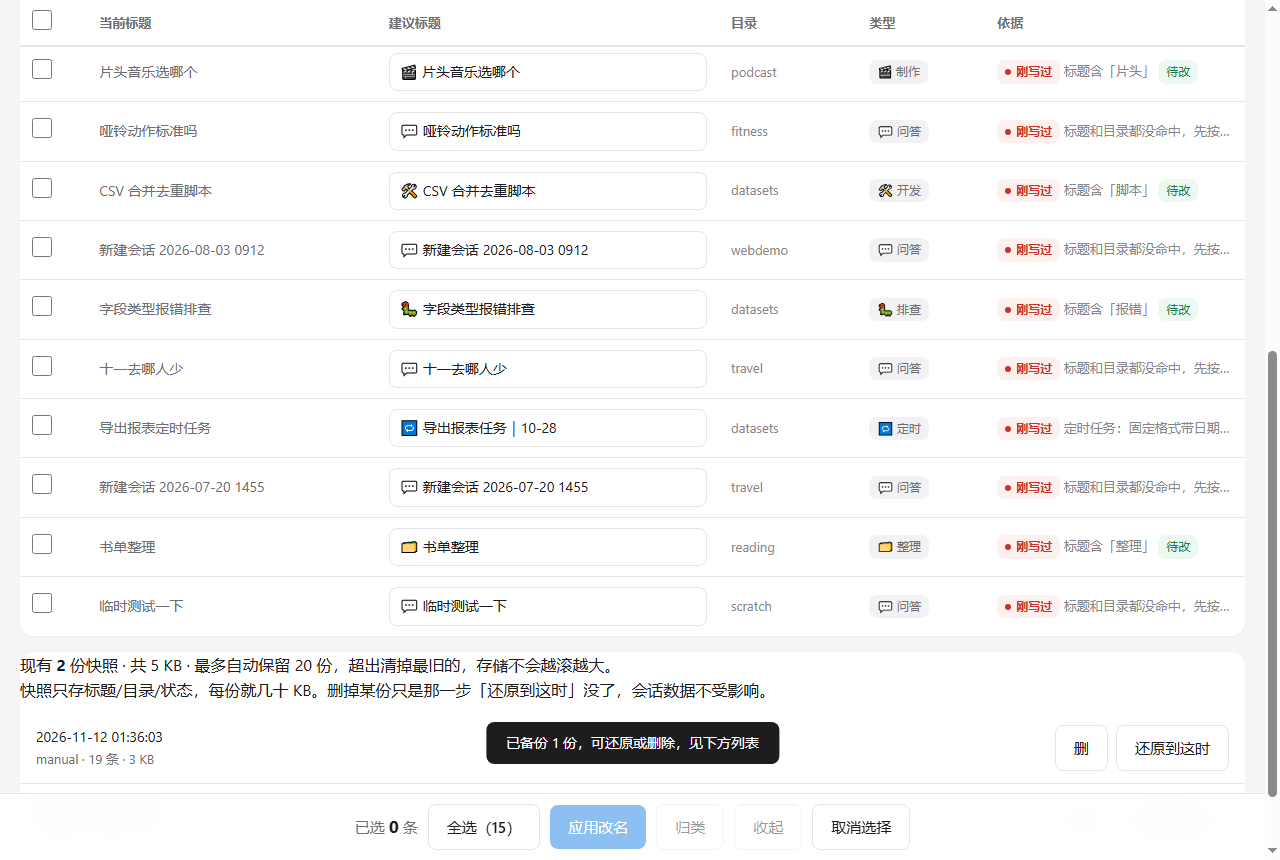
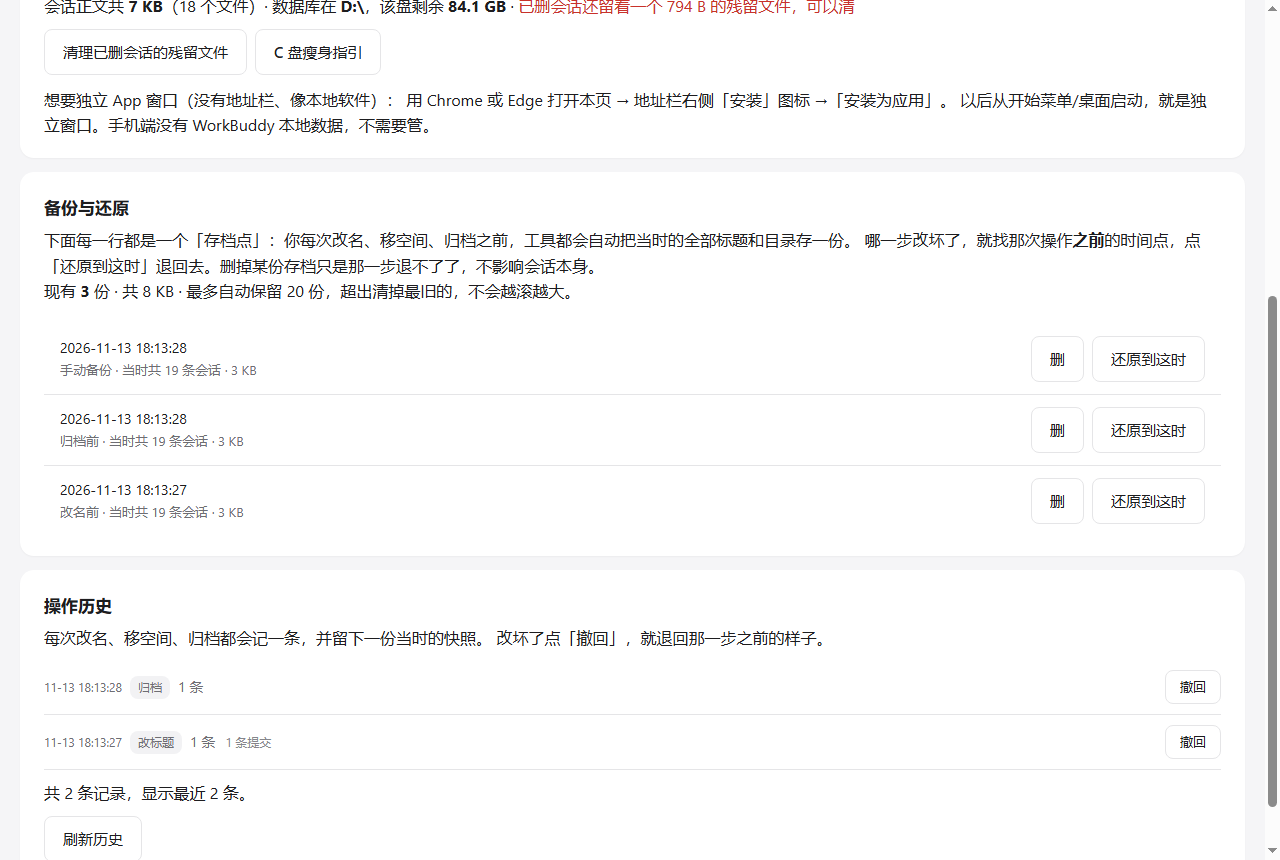
界面术语统一为「归档 / 移到空间」；修顶部「维护」标签点开不加载数据（一直停在「正在检查…」）；README 6 张截图按当前界面重拍（演示环境隔离，无本机路径）

diff --git a/ui.html b/ui.html
@@ -838,7 +838,7 @@ function renderFilterNote(){
     if (b) b.onclick = archiveOldAuto;
   }else if (FILTER === 'archived'){
     n.hidden = false;
-    n.innerHTML = `<b>已归档的会话</b>：从侧栏收起来了，数据都在。
+    n.innerHTML = `<b>已归档的会话</b>：从侧栏藏起来了，数据都在。
       在 WorkBuddy 里这叫「归档的任务」，在 <b>设置</b> 页能找到。
       这里勾选后点底部「取消归档」，就能放回侧栏。`;
   }else{
@@ -1197,15 +1197,14 @@ $('btnBackup').onclick = async ()=>{
     const r = await api('/api/backup', {});
     await load();
     // 备份完切到「维护 · 备份」视图，让用户看到现在有几份、占多少
-    showView('maint');
-    await loadHistory();
+    await enterMaint();
     toast('已备份 1 份，可还原或删除，见「备份与还原」');
   }
   catch(e){ toast('失败：'+e.message); }
 };
 
 $('btnReload').onclick = ()=>load().then(()=>toast('已刷新'));
-$('btnPanel').onclick = ()=>{ showView('maint'); loadHistory(); };
+$('btnPanel').onclick = ()=>enterMaint();
 
 /* ---------- AI 命名 ---------- */
 // 支持 ?ai=1 直达，方便收藏和分享
@@ -1760,8 +1759,16 @@ function showView(v){
   document.querySelectorAll('#tabs .tab').forEach(t=>t.classList.toggle('on', t.dataset.view === v));
   window.scrollTo(0, 0);
 }
+/* 进「维护」视图顺手把三块数据拉一遍。
+   顶部 tab 和主页入口都走这里——只 showView 不拉数据的话，
+   「路径写法分裂 / 存储占用 / 空间体检」会一直停在「正在检查…」。 */
+async function enterMaint(){
+  showView('maint');
+  await Promise.all([loadPaths(), loadStorage(), loadHistory()]);
+}
+
 document.querySelectorAll('#tabs .tab').forEach(t=>{
-  t.onclick = ()=>showView(t.dataset.view);
+  t.onclick = ()=> (t.dataset.view === 'maint' ? enterMaint() : showView(t.dataset.view));
 });
 
 /* ---------- 主页 ---------- */
@@ -1816,10 +1823,7 @@ $('btnHomeAll').onclick = ()=>$('btnMaint').click();
 
 /* ---------- 维护 ---------- */
 // 「维护」不再弹浮层，切到维护视图（路径统一 / 存储占用 / 备份还原 / 操作历史都在里面）
-$('btnMaint').onclick = async ()=>{
-  showView('maint');
-  await Promise.all([loadPaths(), loadStorage(), loadHistory()]);
-};
+$('btnMaint').onclick = ()=>enterMaint();
 
 /* ---------- 操作历史 ---------- */
 async function loadHistory(){

diff --git a/wbmanager.py b/wbmanager.py
@@ -1,6 +1,6 @@
 """wb-manager：WorkBuddy 会话管理器（独立工具，不依赖插件）。
 
-直接读写 WorkBuddy 的数据库，能干对话里干不了的事：批量改标题、搬目录、归档。
+直接读写 WorkBuddy 的数据库，能干对话里干不了的事：批量改标题、移到空间、归档。
 
 启动：
     python wbmanager.py            # 起服务并自动开浏览器
@@ -307,7 +307,7 @@ def snapshot(tag="manual"):
 def undo_snapshot(name):
     """撤回某一步操作。
 
-    关键差别：改标题、归档只要改数据库；但归类改的是 cwd，
+    关键差别：改标题、归档只要改数据库；但移到空间改的是 cwd，
     光把 cwd 改回去而磁盘文件不动，会话就点不开了——WorkBuddy 是按
     projects/<目录名>/<会话id>.jsonl 找正文的。
 
@@ -337,7 +337,7 @@ def undo_snapshot(name):
     blocked = []
     if back:
         if not IS_WIN:
-            return {"error": "撤回归类要搬动磁盘文件，这个功能只在 Windows 上可用"}
+            return {"error": "撤回移到空间要搬动磁盘文件，这个功能只在 Windows 上可用"}
         r = move_sessions(back)
         if r.get("error"):
             return {"error": r["error"]}
@@ -1623,7 +1623,7 @@ def archive_sessions(ids, archive=True):
                     blocked.append({"id": sid, "why": "数据库里没有这条会话"})
                     continue
                 if row["deleted_at"] is not None:
-                    blocked.append({"id": sid, "why": "这条已在回收站，先恢复再收起"})
+                    blocked.append({"id": sid, "why": "这条已在回收站，先恢复再归档"})
                     continue
                 cur = (row["status"] or "").lower()
 
@@ -1644,7 +1644,7 @@ def archive_sessions(ids, archive=True):
         con.close()
 
     _save_orig(orig)
-    log_action("收起" if archive else "取消收起", changed, snap,
+    log_action("归档" if archive else "取消归档", changed, snap,
                f"{len(blocked)} 条被跳过" if blocked else "")
     return {"changed": changed, "snapshot": snap, "blocked": blocked,
             "need_restart": changed > 0}
@@ -1656,7 +1656,7 @@ def organize_all(dry_run=False):
     只动有把握的，三类跳过：
     - 需确认（规则没认出的）——留给你人工或 AI 起名
     - 正在使用的——文件 3 分钟内被写过
-    - 已收起的——收起的东西不折腾
+    - 已归档的——归档的东西不折腾
     apply_titles 内部会先自动快照，改坏可撤。
     dry_run=True 时只返回「将要改什么」，不写任何东西——给检查窗口用。
     """
@@ -1878,7 +1878,7 @@ def preview_move(pairs):
     if not IS_WIN:
         return {"items": [], "can_move": 0, "blocked": len(pairs),
                 "wb_running": wb_running(),
-                "error": "搬目录只在 Windows 上验证过。当前系统的目录转义规则没把握，"
+                "error": "移到空间只在 Windows 上验证过。当前系统的目录转义规则没把握，"
                          "算错会让会话打不开，所以这边不提供。改标题和归档不受影响。"}
 
     trust, why_not = rule_trusted()
@@ -2024,7 +2024,7 @@ def move_sessions(pairs):
         return {"changed": 0, "snapshot": None, "blocked": []}
 
     if not IS_WIN:
-        return {"error": "搬目录只在 Windows 上验证过，当前系统不支持。"
+        return {"error": "移到空间只在 Windows 上验证过，当前系统不支持。"
                          "改标题和归档不受影响。", "changed": 0}
 
     trust, why_not = rule_trusted()
